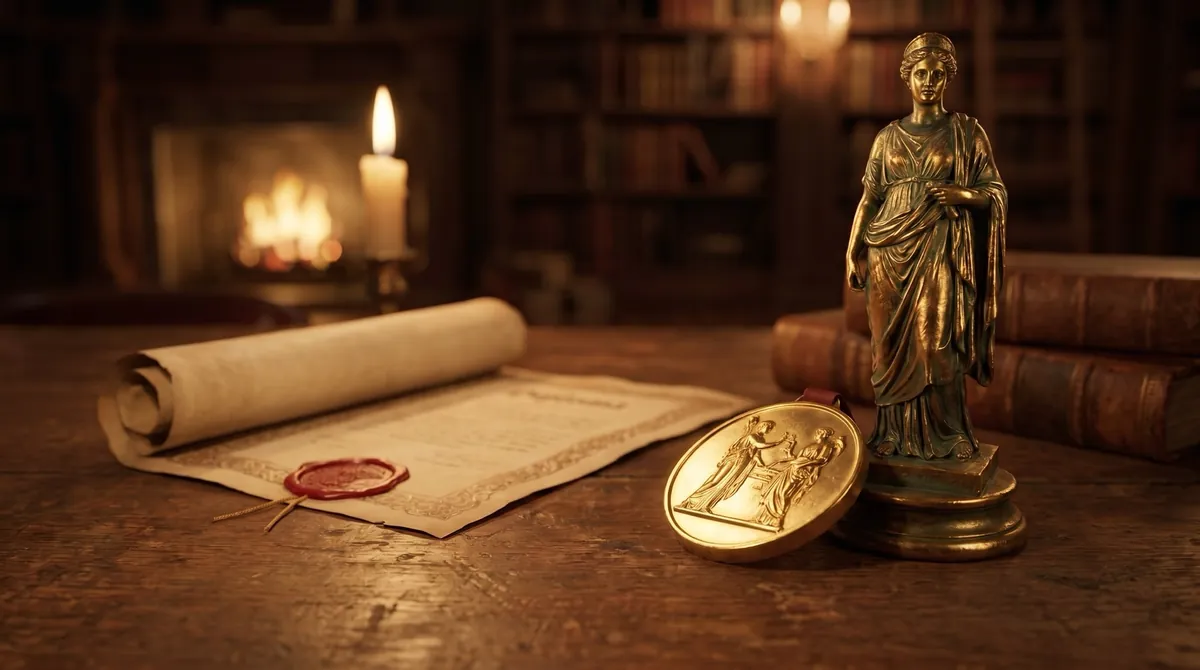
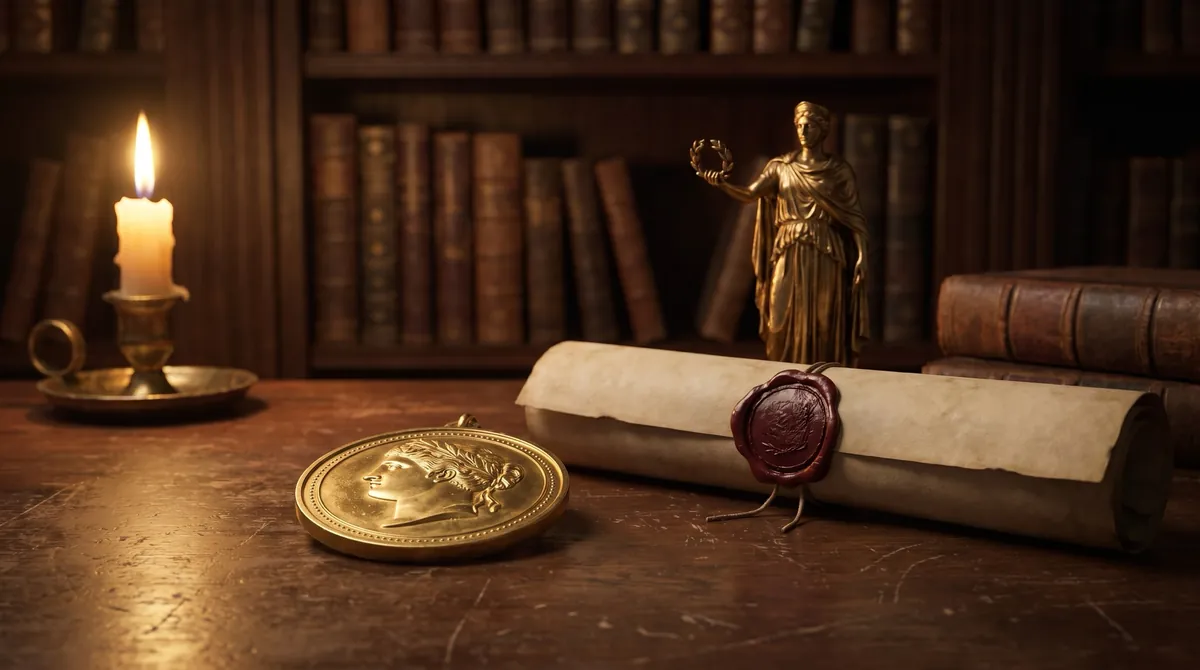
Nouvelle image pour la sous-catégorie « Prix et récompenses »
Claude-Session: https://claude.ai/code/session_01WqHUsMSjdbECRNDGLqWjfV

diff --git a/sw.js b/sw.js
@@ -12,7 +12,7 @@
 // 'install' recharge tout depuis le réseau. Un pack de langue ou un texte
 // d'UI modifié qui ne s'affiche pas malgré un déploiement réussi est
 // généralement le signe que l'un de ces deux numéros n'a pas été incrémenté.
-const CACHE_VERSION = '1.4.94';
+const CACHE_VERSION = '1.4.95';
 const APP_SHELL_CACHE = `historiaxe-shell-v${CACHE_VERSION}`;
 const DATA_CACHE = 'historiaxe-data-v1.0.67';
 
